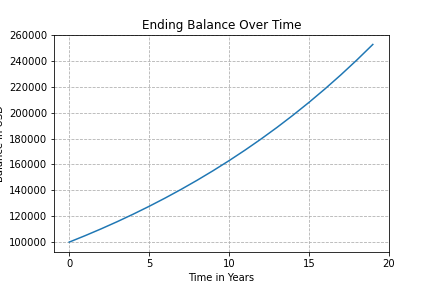
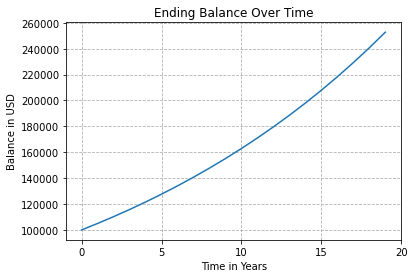
Graph png image repositioning

diff --git a/Future Value/Time Series/ending_balance_fv.py b/Future Value/Time Series/ending_balance_fv.py
@@ -20,7 +20,7 @@ def plot_balances(ending_balance):
     plt.title('Ending Balance Over Time')
     plt.xlabel('Time in Years')
     plt.ylabel('Balance in USD')
-    fig.savefig('ending_balance_over_time.png')
+    fig.savefig('ending_balance_over_time.png', bbox_inches='tight')
 
 r = 0.05
 ending_balance = np.ones(20) * 100000
